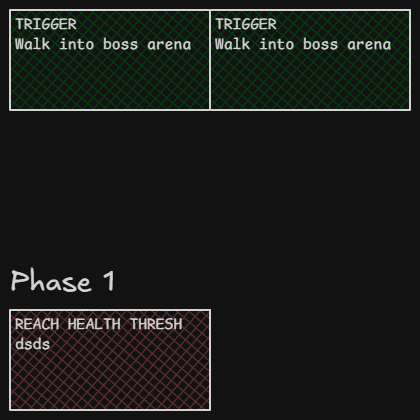
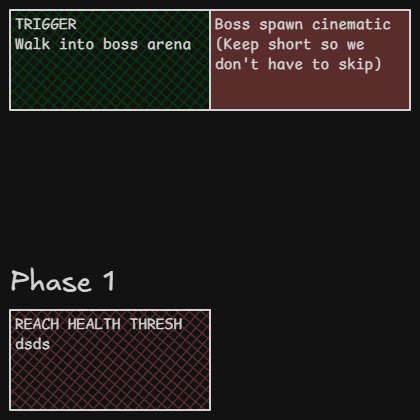
vault backup: 2026-08-04 21:08:02

Changed region(s): [[0.4952, 0.0, 0.9905, 0.2786]]

diff --git a/Projects/Summer Project/Mechanics/Boss/Boss01 Graph.md b/Projects/Summer Project/Mechanics/Boss/Boss01 Graph.md
@@ -17,8 +17,8 @@ Walk into boss arena ^ErVCnzOs
 REACH HEALTH THRESH
 dsds ^1nndUhKs
 
-TRIGGER
-Walk into boss arena ^7qYF2iT2
+Boss spawn cinematic
+(Keep short so we don't have to skip) ^7qYF2iT2
 
 %%
 ## Drawing
@@ -43,18 +43,20 @@ MkvEatEblFlusDgmI4mSFUkTToYASadH2ZAQ+q8T403PkWHM4wKEWJFl3XC19ua31FmDfi9ihYiQ5eLY
 
[1 lines of base64/hex data omitted]
 
[2 lines of base64/hex data omitted]
 
[2 lines of base64/hex data omitted]
 
[2 lines of base64/hex data omitted]
 
[2 lines of base64/hex data omitted]
 
[2 lines of base64/hex data omitted]
 
[2 lines of base64/hex data omitted]
 
[2 lines of base64/hex data omitted]
+
+SACkYIQ0YAEmSSIAA===
 ```
 %%
